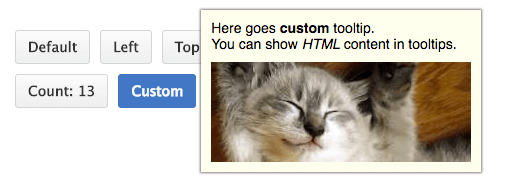
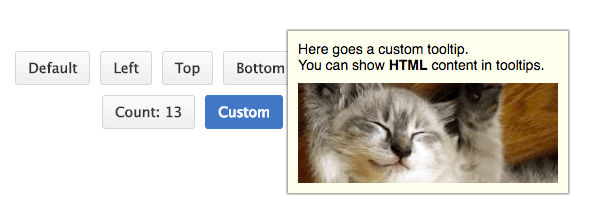
Add custom tooltips with HTML content

diff --git a/demo/src/index.js b/demo/src/index.js
@@ -18,14 +18,24 @@ class Demo extends React.Component {
 	render() {
 		const {count} = this.state
 		return (
-			<div>
+			<div className="centered">
 				<button className="btn" data-rh="Default">Default</button>
-				<button className="btn" data-rh="Top" data-rh-at="top">Top</button>
 				<button className="btn" data-rh="Left" data-rh-at="left">Left</button>
-				<button className="btn" data-rh="Right" data-rh-at="right">Right</button>
+				<button className="btn" data-rh="Top" data-rh-at="top">Top</button>
 				<button className="btn" data-rh="Bottom" data-rh-at="bottom">Bottom</button>
+				<button className="btn" data-rh="Right" data-rh-at="right">Right</button>
+				<div>
 				<button className="btn" data-rh={`Count: ${count}`}>Count: {count}</button>
+				<button className="btn btn-outline" data-rh="#custom" data-rh-cls="react-hint--custom"
+					data-rh-at="right">Custom</button>
+				</div>
 				<ReactHint />
+
+				<div style={{display: 'none'}} id="custom">
+					Here goes a custom tooltip.<br />
+					You can show <b>HTML</b> content in tooltips.
+					<img src="//placekitten.com/260/100" />
+				</div>
 			</div>
 		)
 	}

diff --git a/demo/src/index.css b/demo/src/index.css
@@ -1,7 +1,50 @@
+html, body {
+	height: 100%;
+	padding: 0;
+	margin: 0;
+}
+
 body {
-	padding: 40px;
+	font-family: Helvetica, Arial, sans-serif;
+	font-size: 14px;
+}
+
+#demo {
+	width: 100%;
+	height: 100%;
+	display: table;
+}
+
+.centered {
+	width: 100%;
+	height: 100%;
+	display: table-cell;
+	text-align: center;
+	vertical-align: middle;
 }
 
 .btn {
 	margin: 5px;
+}
+
+.react-hint {
+	text-align: initial;
+}
+
+.react-hint--custom .react-hint__content {
+	background: ivory;
+	color: #000;
+	box-shadow: 0px 0px 2px 1px rgba(0,0,0,.5);
+	border-radius: 0;
+	border: 0;
+}
+
+.react-hint--custom:after {
+	display: none;
+}
+
+.react-hint--custom img {
+	display: block;
+	margin-top: 10px;
+	width: 100%;
 }

diff --git a/README.md b/README.md
@@ -1,8 +1,10 @@
 react-hint
 ==========
-**react-hint** is a small tooltip component for [React](https://github.com/facebook/react) which is developed with simplicity and performance in mind. It doesn't include any fancy stuff, but it gets the job done. It also plays nicely with [Preact](https://github.com/developit/preact) and [Inferno](https://github.com/trueadm/inferno) (1.0.0-beta3). [Demo page](https://slmgc.github.io/react-hint/).
+**React-hint** is a small tooltip component for [React](https://github.com/facebook/react) which is developed with simplicity and performance in mind. It also plays nicely with [Preact](https://github.com/developit/preact) and [Inferno](https://github.com/trueadm/inferno). There is a [demo page](https://slmgc.github.io/react-hint/).
 
 ![react-hint tooltip](https://raw.githubusercontent.com/slmgc/react-hint/master/demo/react-hint.gif)
+
+![custom tooltip](https://raw.githubusercontent.com/slmgc/react-hint/master/demo/custom-tooltip.png)
 
 How to install
 --------------
@@ -12,8 +14,15 @@ npm i -S react-hint
 
 How to use
 ----------
+ReactHint Property|Type|Default Value|Description
+:-|:-|:-|:-
+className|String|react-hint|`<ReactHint />` is a singleton component. You can completely override the default tooltip style by passing `className` property with a new base class name.
 
-`<ReactHint />` is a singleton component. To show a tooltip on any DOM element and its children add `data-rh` attribute to the element. The default placement of a tooltip is at the top, but you can add `data-rh-at` attribute to change the placement. Supported values are: `top`, `left`, `right`, `bottom`. You can completely override tooltip style by passing `className` property to `<ReactHint />`.
+Element Attribute|Type|Default Value|Description
+:-|:-|:-|:-
+data-rh|String or #element-id||To show a tooltip on any DOM element and its children add `data-rh` attribute with a tooltip text to the element. Pass `#element-id` instead of a text to show the element's HTML content.
+data-rh-at|top, left, right, bottom|top|The default placement of a tooltip is at the top, but you can add `data-rh-at` attribute to change the placement.
+data-rh-cls|String||To customize a single tooltip add `data-rh-cls` with a class name which will be added to the tooltip.
 
 ```jsx
 import React from 'react'
@@ -36,12 +45,19 @@ class Demo extends React.Component {
 		return (
 			<div>
 				<button data-rh="Default">Default</button>
-				<button data-rh="Top" data-rh-at="top">Top</button>
 				<button data-rh="Left" data-rh-at="left">Left</button>
-				<button data-rh="Right" data-rh-at="right">Right</button>
+				<button data-rh="Top" data-rh-at="top">Top</button>
 				<button data-rh="Bottom" data-rh-at="bottom">Bottom</button>
+				<button data-rh="Right" data-rh-at="right">Right</button>
 				<button data-rh={`Count: ${count}`}>Count: {count}</button>
+				<button data-rh="#custom" data-rh-cls="react-hint--custom">Custom</button>
 				<ReactHint />
+
+				<div style={{display: 'none'}} id="custom">
+					Here goes a custom tooltip.<br />
+					You can show <b>HTML</b> content in tooltips.
+					<img src="//placekitten.com/260/100" />
+				</div>
 			</div>
 		)
 	}
